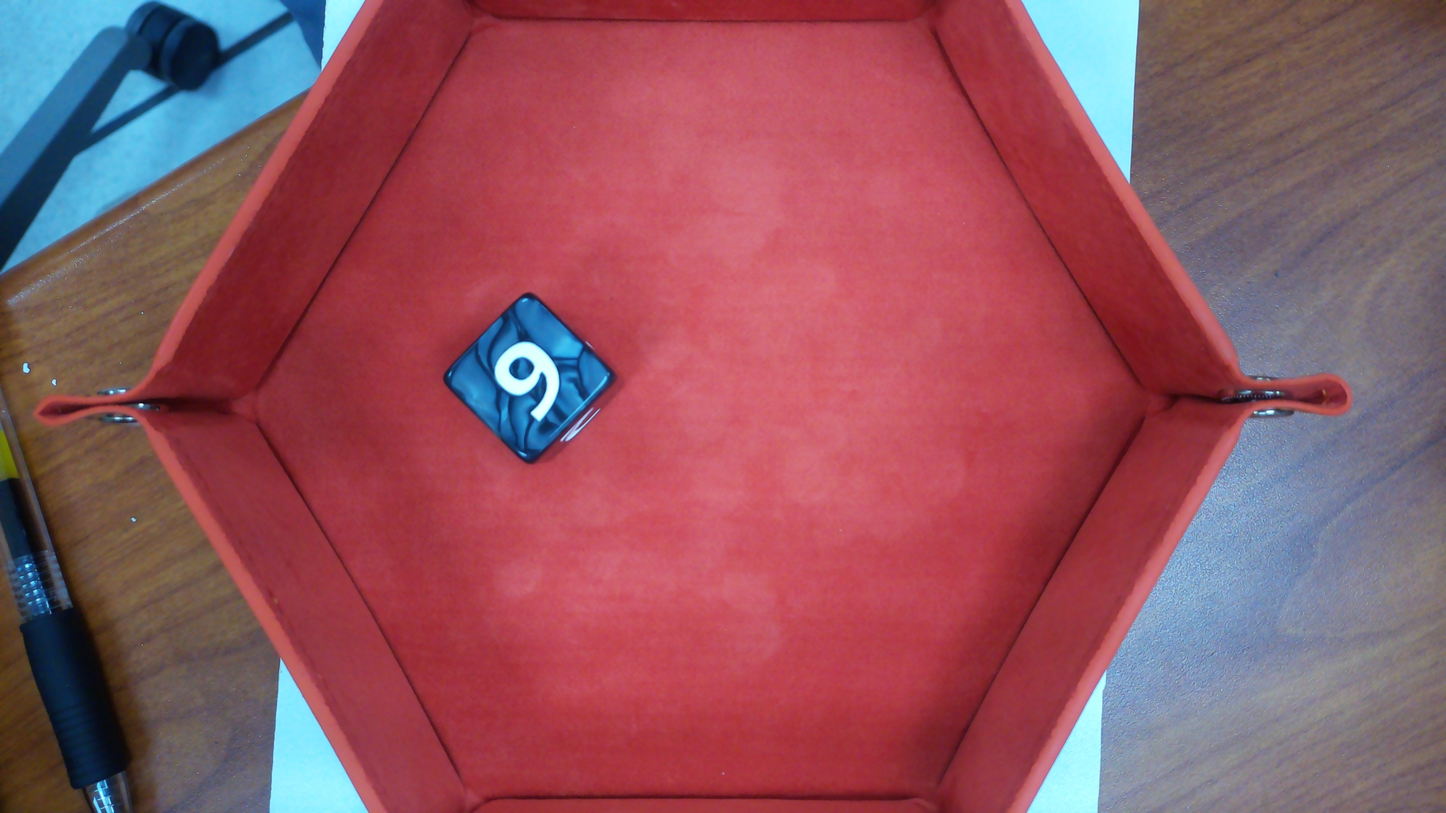
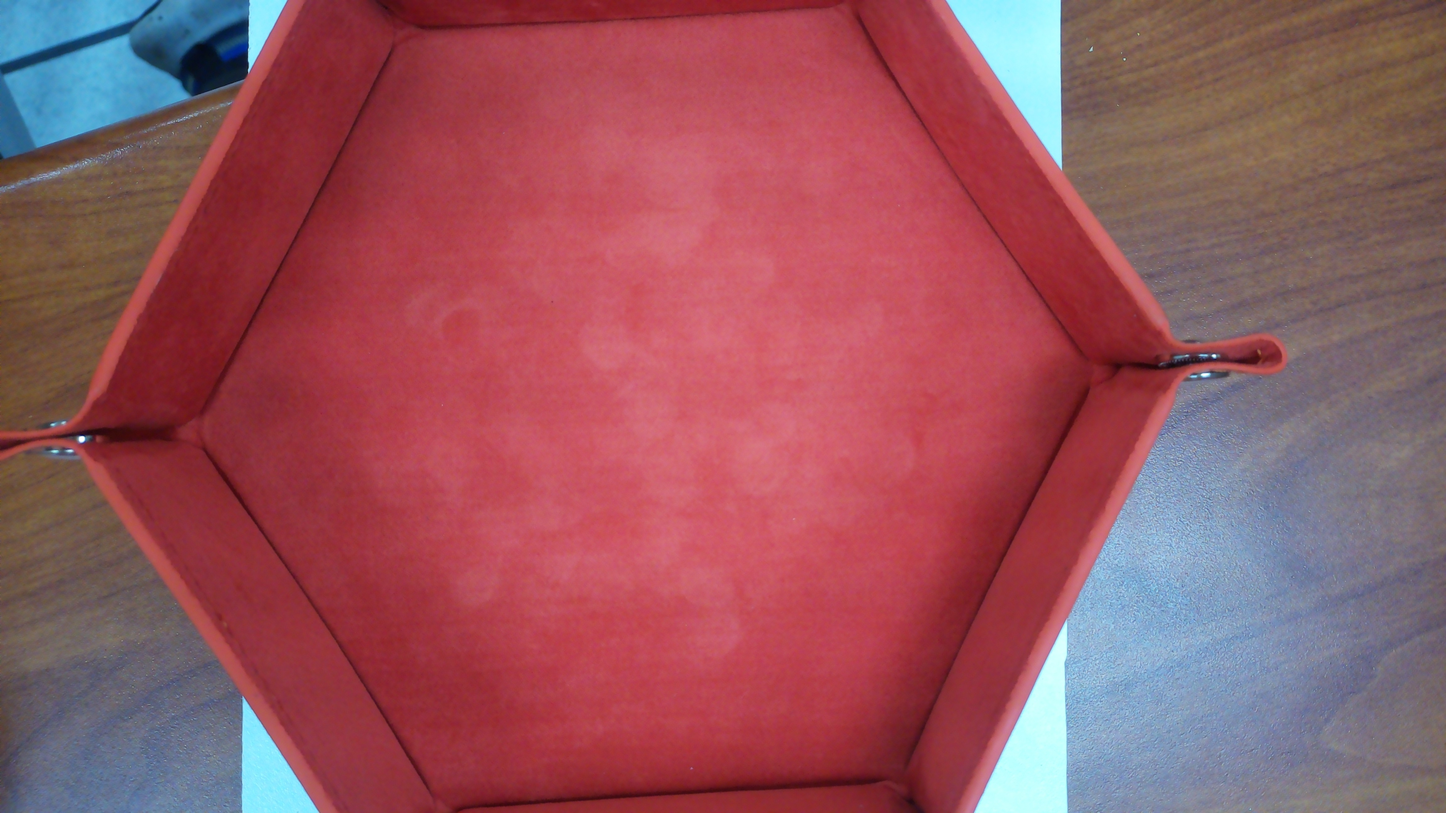
Shifted Crop

diff --git a/camera-testing/take_picture.py b/camera-testing/take_picture.py
@@ -10,5 +10,5 @@ picam2.set_controls({"ExposureTime": 10000, "AfMode": controls.AfModeEnum.Manual
 picam2.start()
 picam2.capture_file("camera-testing/image.jpg")
 image = cv2.imread("camera-testing/image.jpg")
-cropped = image[0:2592, 463:4000]
+cropped = image[0:2592, 350:3600]
 cv2.imwrite("camera-testing/cropped.jpg", cropped)
